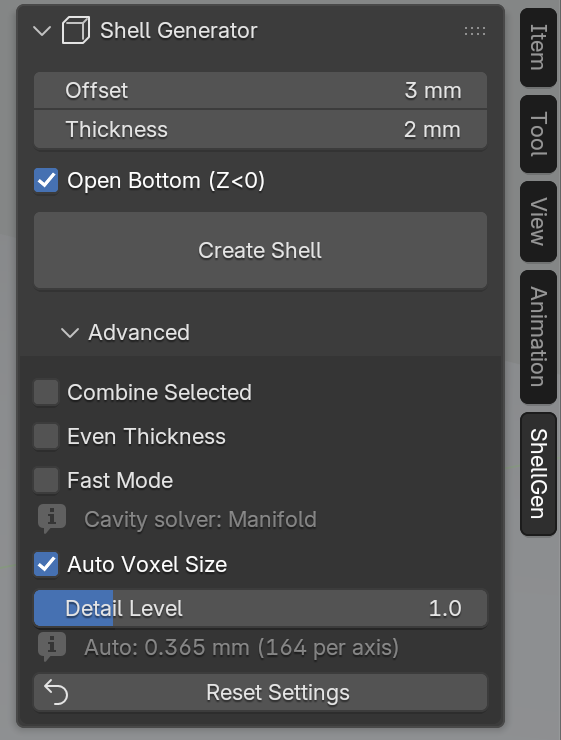
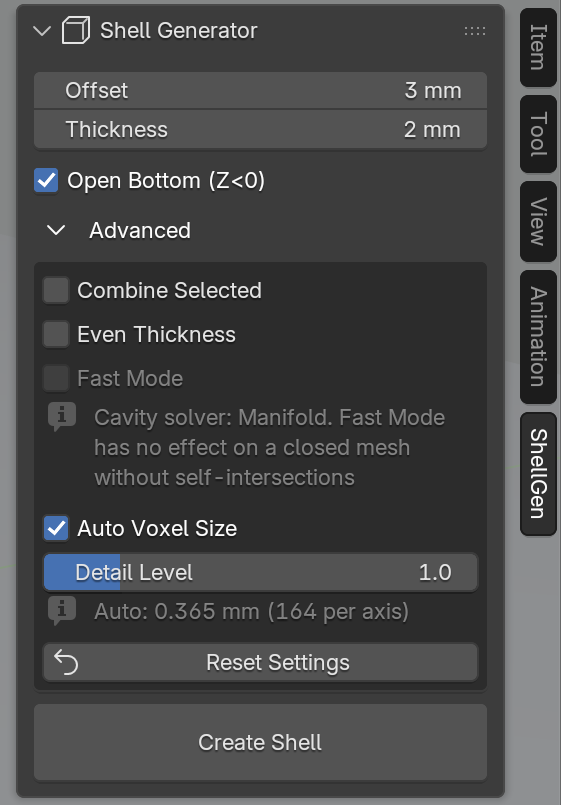
Draw the Create Shell button after Advanced and the warnings below it

diff --git a/modules/ui.py b/modules/ui.py
@@ -251,65 +251,60 @@ class OBJECT_PT_shell_panel(Panel):
         col.prop(props, "thickness")
         layout.prop(props, "open_bottom")
 
-        try:
-            for text, icon in checks(context):
-                draw_wrapped(layout, context, text, icon)
-        except Exception:
-            traceback.print_exc()
-            layout.label(text="Checks unavailable", icon='ERROR')
-
+        # Subpanel and layout panel headers indent their arrow; this toggle lines it up
+        # with the settings, and the button after it stays put while warnings come and go
         row = layout.row()
-        row.scale_y = 2.0
-        row.operator("object.create_offset_shell")
+        row.alignment = 'LEFT'
+        row.prop(props, "show_advanced", emboss=False,
+                    icon='DOWNARROW_HLT' if props.show_advanced else 'RIGHTARROW')
+        if props.show_advanced:
+            draw_advanced(layout.box(), context)
+        draw_create(layout, context)
 
 
-class OBJECT_PT_shell_advanced(Panel):
-    """Collapsed subpanel for settings whose defaults rarely need changing."""
+def draw_advanced(layout, context):
+    """Draw the settings whose defaults rarely need changing."""
+    props = context.scene.shellgen_props
+    col = layout.column()
+    col.prop(props, "combine_selected_for_proxy")
+    col.prop(props, "even_thickness")
+    if props.even_thickness:
+        col.label(text="May create artifacts", icon='ERROR')
+    solver = cavity(context)[0]
+    # Fast Mode only picks between the solvers for an open or self-intersecting mesh
+    row = col.row()
+    row.active = solver != "Manifold"
+    row.prop(props, "fast_mode")
+    # The tooltip is static, so the hint says why Fast Mode is greyed out
+    if solver == "Manifold":
+        reason = "with Combine Selected" if is_combined(context) else "on a closed mesh without self-intersections"
+        hint(col, context, f"Cavity solver: Manifold. Fast Mode has no effect {reason}")
+    elif solver:
+        hint(col, context, f"Cavity solver: {solver}")
 
-    bl_label = "Advanced"
-    bl_idname = "OBJECT_PT_shell_advanced"
-    bl_parent_id = "OBJECT_PT_shell_panel"
-    bl_space_type = 'VIEW_3D'
-    bl_region_type = 'UI'
-    bl_category = "ShellGen"
-    bl_options = {'DEFAULT_CLOSED'}
+    col = layout.column()
+    col.prop(props, "auto_voxel_size")
+    if props.auto_voxel_size:
+        col.prop(props, "detail_level", slider=True)
+    else:
+        col.prop(props, "remesh_voxel_size")
+    voxel, per_axis, _, raised = remesh_voxel_size(context)
+    if props.auto_voxel_size or raised:
+        prefix = "Auto" if props.auto_voxel_size else "Raised"
+        hint(col, context, f"{prefix}: {format_length(context, voxel)} ({per_axis} per axis)")
 
-    @classmethod
-    def poll(cls, context):
-        """Only display when there is a mesh to build from."""
-        return source_problem(context) is None
+    layout.operator("object.shell_reset_props", text="Reset Settings", icon='LOOP_BACK')
 
-    def draw(self, context):
-        """Draw the advanced settings."""
-        layout = self.layout
-        props = context.scene.shellgen_props
 
-        col = layout.column()
-        col.prop(props, "combine_selected_for_proxy")
-        col.prop(props, "even_thickness")
-        if props.even_thickness:
-            col.label(text="May create artifacts", icon='ERROR')
-        solver = cavity(context)[0]
-        # Fast Mode only picks between the solvers for an open or self-intersecting mesh
-        row = col.row()
-        row.active = solver != "Manifold"
-        row.prop(props, "fast_mode")
-        # The tooltip is static, so the hint says why Fast Mode is greyed out
-        if solver == "Manifold":
-            reason = "with Combine Selected" if is_combined(context) else "on a closed mesh without self-intersections"
-            hint(col, context, f"Cavity solver: Manifold. Fast Mode has no effect {reason}")
-        elif solver:
-            hint(col, context, f"Cavity solver: {solver}")
+def draw_create(layout, context):
+    """Draw the Create Shell button and the warnings below it."""
+    row = layout.row()
+    row.scale_y = 2.0
+    row.operator("object.create_offset_shell")
 
-        col = layout.column()
-        col.prop(props, "auto_voxel_size")
-        if props.auto_voxel_size:
-            col.prop(props, "detail_level", slider=True)
-        else:
-            col.prop(props, "remesh_voxel_size")
-        voxel, per_axis, _, raised = remesh_voxel_size(context)
-        if props.auto_voxel_size or raised:
-            prefix = "Auto" if props.auto_voxel_size else "Raised"
-            hint(col, context, f"{prefix}: {format_length(context, voxel)} ({per_axis} per axis)")
-
-        layout.operator("object.shell_reset_props", text="Reset Settings", icon='LOOP_BACK')
+    try:
+        for text, icon in checks(context):
+            draw_wrapped(layout, context, text, icon)
+    except Exception:
+        traceback.print_exc()
+        layout.label(text="Checks unavailable", icon='ERROR')

diff --git a/modules/operators.py b/modules/operators.py
@@ -438,7 +438,8 @@ class OBJECT_OT_shell_reset_props(Operator):
         props = context.scene.shellgen_props
         
         for name in props.bl_rna.properties.keys():
-            if name not in ('rna_type', 'name'):
+            # Reset Settings sits in Advanced, which stays open
+            if name not in ('rna_type', 'name', 'show_advanced'):
                 props.property_unset(name)
         props.offset = prefs.default_offset
         props.thickness = prefs.default_thickness

diff --git a/modules/properties.py b/modules/properties.py
@@ -130,6 +130,12 @@ class ShellGenProperties(PropertyGroup):
         unit='LENGTH'
     )
     
+    show_advanced: BoolProperty(
+        name="Advanced",
+        description="Show the settings whose defaults rarely need changing",
+        default=False,
+    )
+
     combine_selected_for_proxy: BoolProperty(
         name="Combine Selected",
         description="Join and remesh all selected meshes to create a single Boolean source",

diff --git a/__init__.py b/__init__.py
@@ -24,7 +24,6 @@ classes = (
     # UI
     ui.VIEW3D_MT_shell_gen_menu,
     ui.OBJECT_PT_shell_panel,
-    ui.OBJECT_PT_shell_advanced,
 )
 
 # Add-on keymap

diff --git a/README.md b/README.md
@@ -39,8 +39,8 @@ A Blender add-on to generate shells with customizable offset and thickness for s
    - Sidebar panel: View3D > Sidebar > ShellGen
    - Object menu: Object > Shell Generator
    - Shortcut: Ctrl+Alt+S
-3. Set Offset and Thickness
-4. Check the warnings above the "Create Shell" button, if any
+3. Set Offset and Thickness, and the Advanced settings below them if needed
+4. Check the warnings below the "Create Shell" button, if any
 5. Click "Create Shell" to generate the shell. If the warnings include errors, a dialog lists them first, also when run from the menu or the shortcut
 
 <img src="docs/images/panel.png" width="280"><br>
@@ -49,7 +49,7 @@ A Blender add-on to generate shells with customizable offset and thickness for s
 The shell is built from the meshes as the viewport shows them, with modifiers and shape keys applied. Mold and shell come without modifiers, shape keys or parent. Only one run can be active at a time; a failed run removes everything it created.
 
 ### Warnings
-Warnings appear above the "Create Shell" button when something may give a poor or slow result, marked as an error when the result would be broken, lose geometry or cost a lot of time and memory, and as a note when it only looks unintended or may lower the quality. Only errors open the confirmation dialog:
+Warnings appear below the "Create Shell" button, so the button keeps its place, when something may give a poor or slow result, marked as an error when the result would be broken, lose geometry or cost a lot of time and memory, and as a note when it only looks unintended or may lower the quality. Only errors open the confirmation dialog:
 - an open mesh (non-manifold edges) or a self-intersecting mesh, which need the slower Exact solver (or Float with Fast Mode); "Combine Selected" avoids both
 - a voxel size above half the offset, for example when Max Voxels per Axis forces it on a large object with a small offset
 - an object starting above Z=0 with Open Bottom on: the cut does not reach the cavity, which stays closed at the bottom
